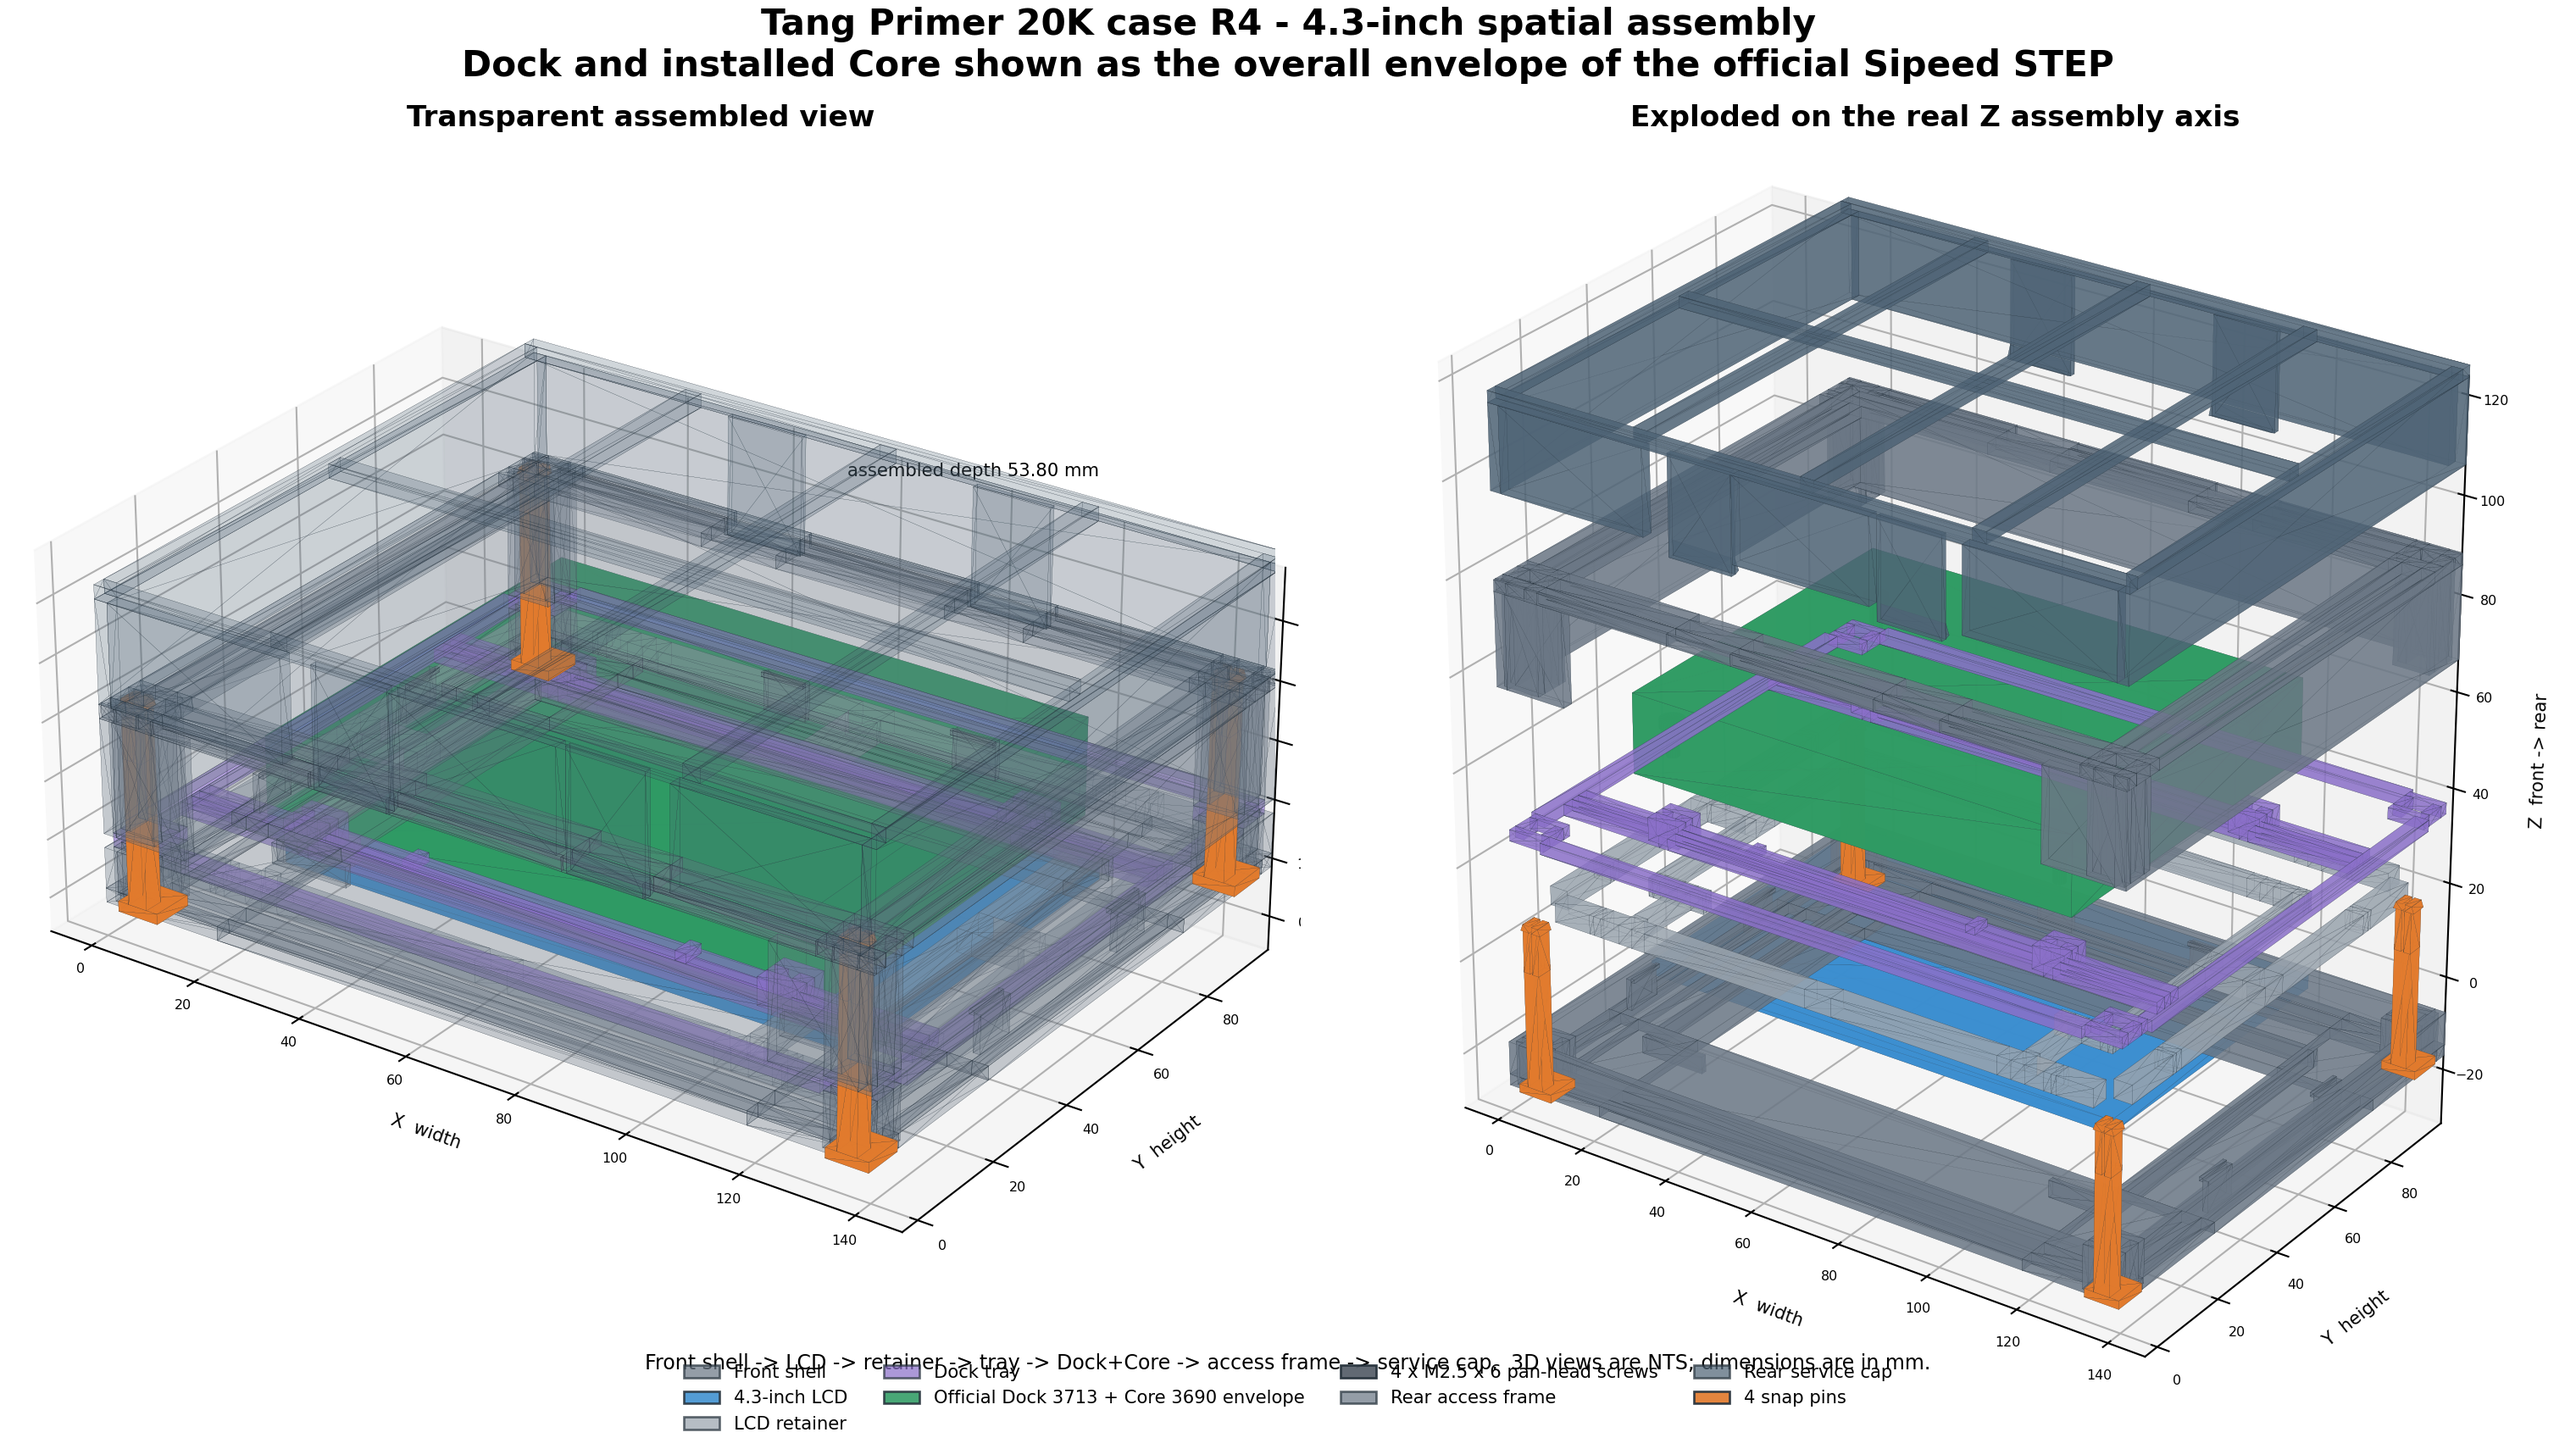
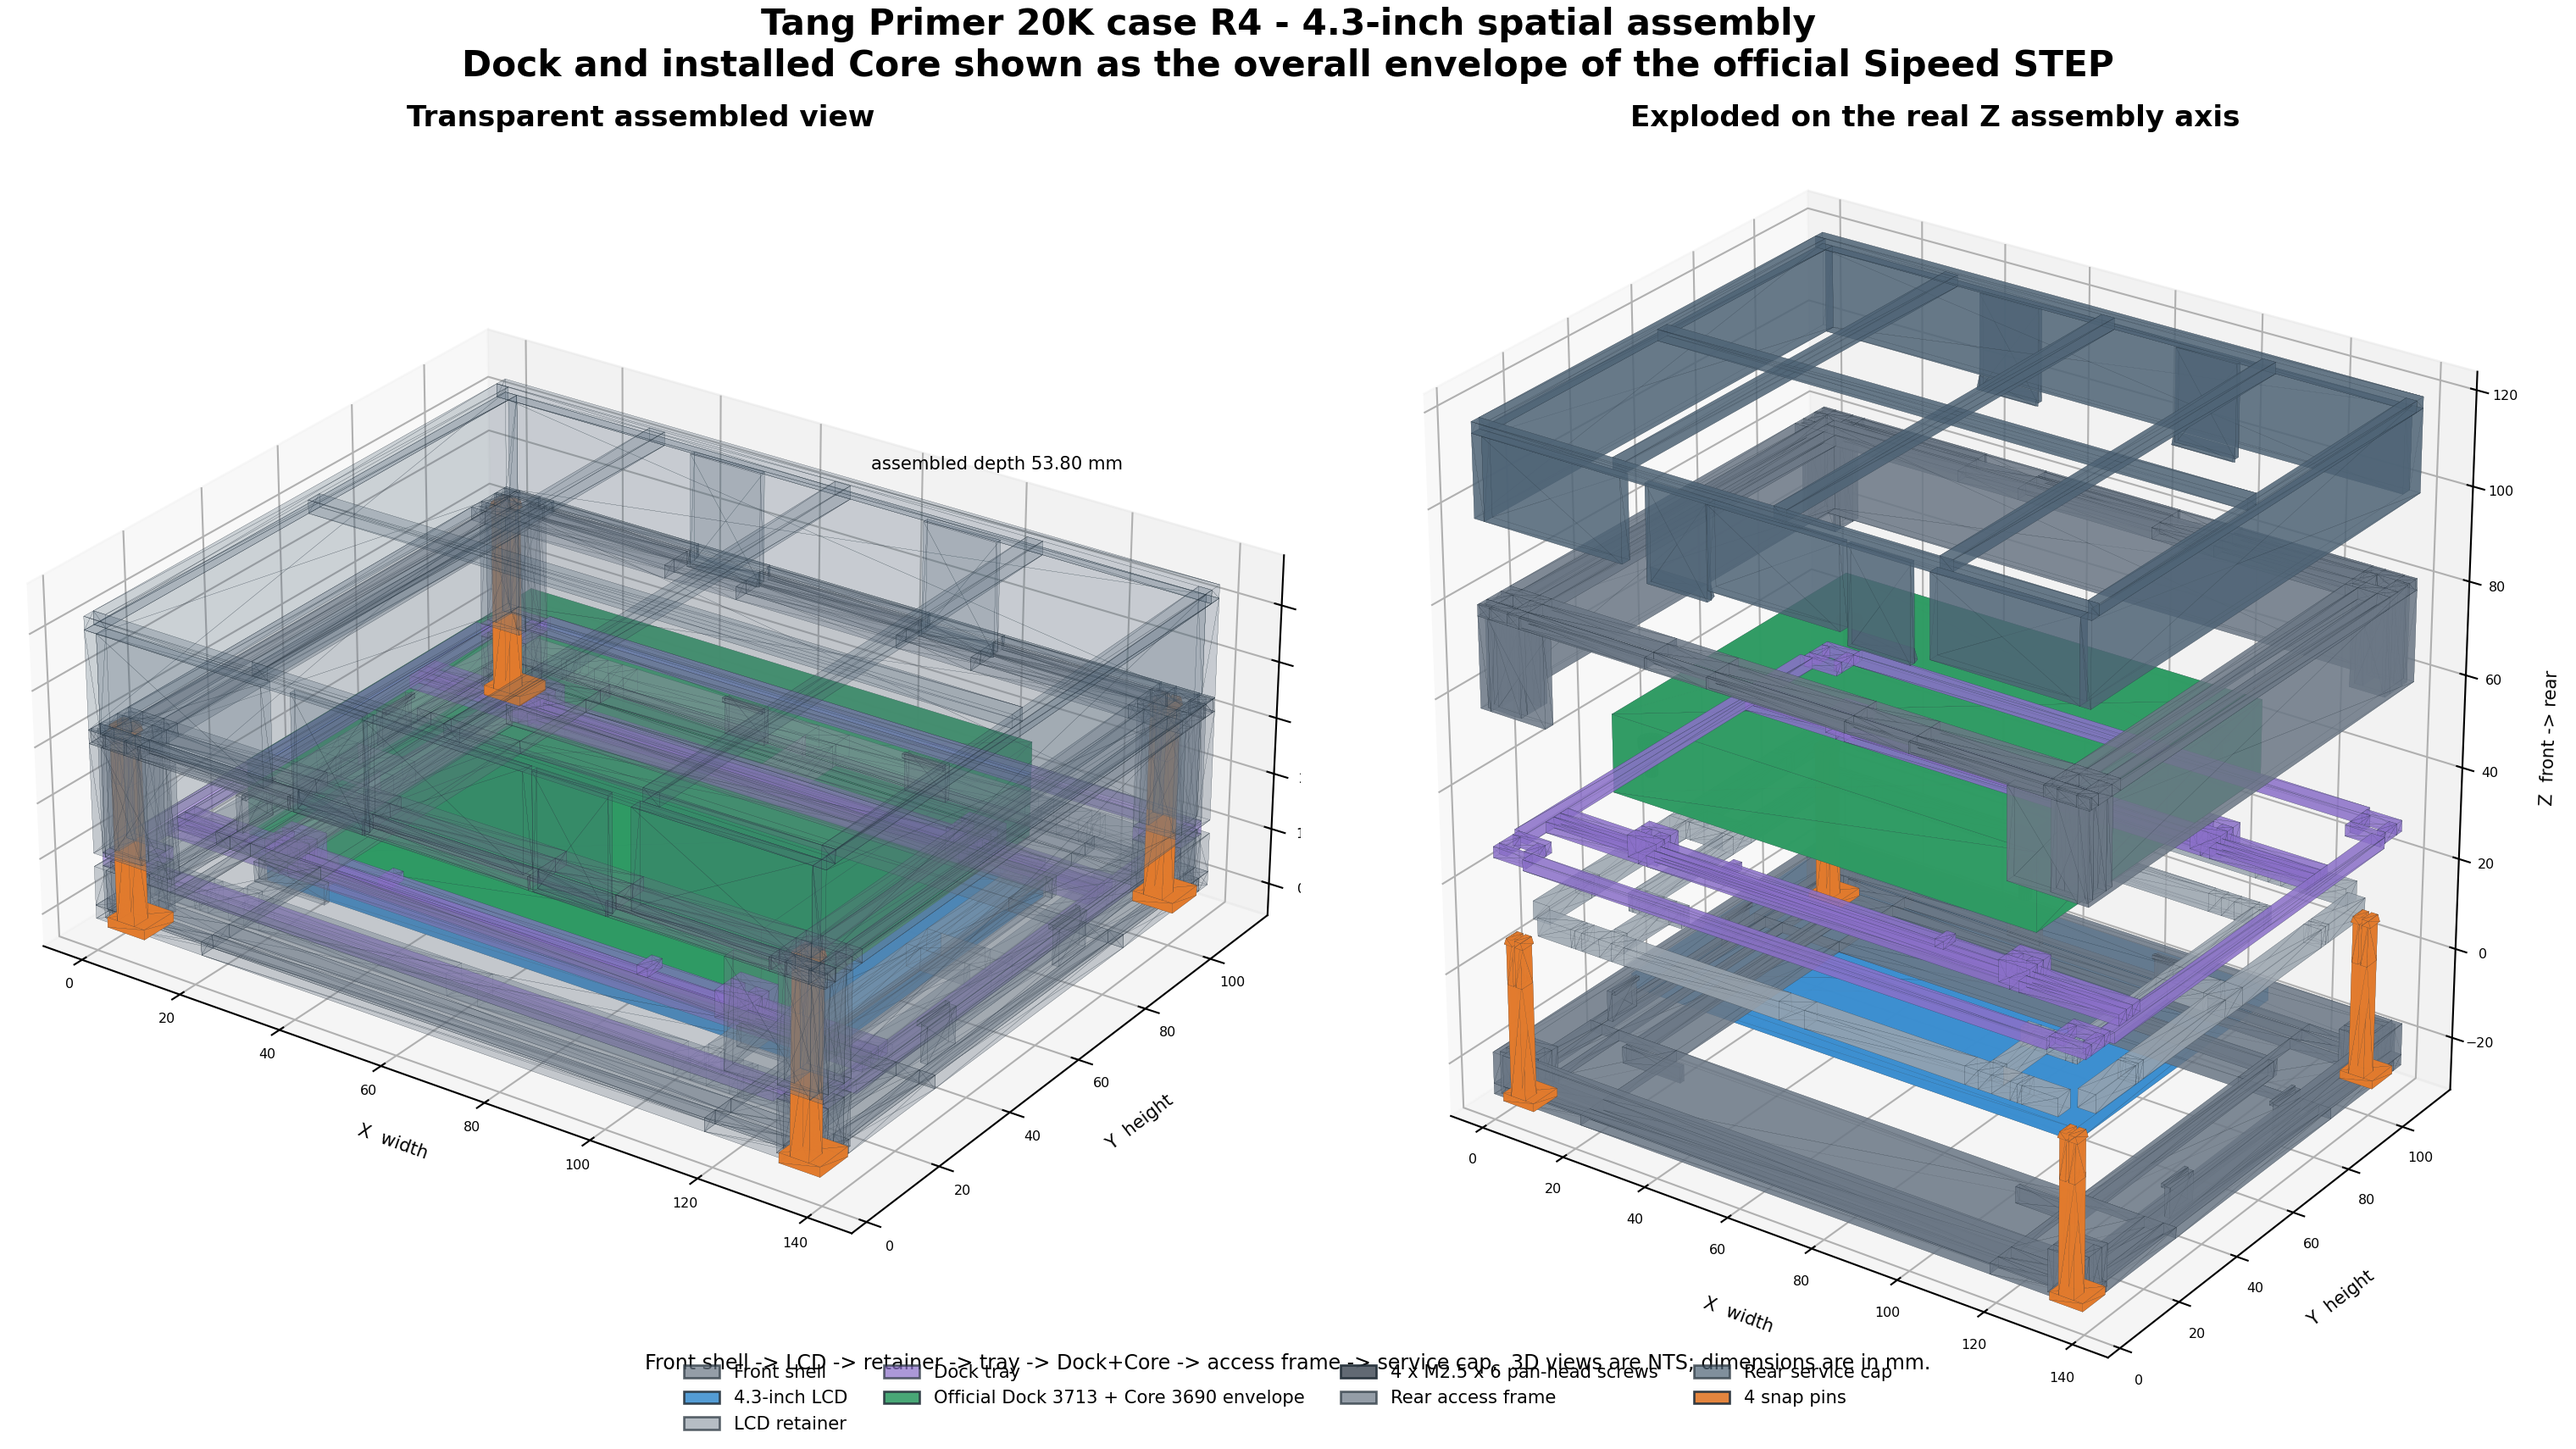
fix(tang-primer-20k): clear the frame top wall and frame the full case height
The rigid upper tongues of the service cap ended 0.60 mm inside the top
wall of the rear access frame (0.80 x 0.60 mm section per tongue), so the
cap could not reach its seated position. The tongues now stop at the inner
face of the frame plate; the detents are unchanged. Version 1.0.3.

The assembly render kept the Y limits of the 92 mm case, which left the
upper 14 mm of the 112 mm case outside the axes box.

Both issues were reported by the Codex review of the import.

Claude-Session: https://claude.ai/code/session_01BfoM2zQuHVJgEx7xZeG9W8

diff --git a/tang-primer-20k-lcd-case/render_spatial_assembly_r4.py b/tang-primer-20k-lcd-case/render_spatial_assembly_r4.py
@@ -13,7 +13,7 @@ import matplotlib.pyplot as plt
 from matplotlib.patches import Patch
 from mpl_toolkits.mplot3d.art3d import Poly3DCollection
 
-from assembly_r4 import CASE_DEPTH, Part, assembled_parts, bounds, exploded_parts
+from assembly_r4 import CASE_DEPTH, CASE_H, Part, assembled_parts, bounds, exploded_parts
 
 
 def display_triangles(part: Part):
@@ -35,9 +35,9 @@ def render_axis(ax, parts: list[Part], title: str, exploded: bool) -> None:
     all_triangles = [tri for part in parts for tri in part.triangles[::max(1, len(part.triangles)//20000)] ]
     lower, upper = bounds(all_triangles)
     ax.set_xlim(-8, 148)
-    ax.set_ylim(-4, 98)
+    ax.set_ylim(-4, CASE_H + 6)
     ax.set_zlim(lower[2] - 4, upper[2] + 5)
-    ax.set_box_aspect((156, 102, max(48, upper[2] - lower[2] + 9)))
+    ax.set_box_aspect((156, CASE_H + 10, max(48, upper[2] - lower[2] + 9)))
     ax.view_init(elev=27, azim=-55)
     ax.set_title(title, fontsize=13, fontweight="bold", pad=4)
     ax.set_xlabel("X  width", fontsize=8)
@@ -46,7 +46,7 @@ def render_axis(ax, parts: list[Part], title: str, exploded: bool) -> None:
     ax.tick_params(labelsize=6, pad=0)
     ax.grid(True, linewidth=0.25, alpha=0.35)
     if not exploded:
-        ax.text(72, 95, CASE_DEPTH + 1.0, f"assembled depth {CASE_DEPTH:.2f} mm", fontsize=8)
+        ax.text(72, CASE_H + 3, CASE_DEPTH + 1.0, f"assembled depth {CASE_DEPTH:.2f} mm", fontsize=8)
 
 
 def render(input_dir: Path, dock_step_stl: Path | None, spec_key: str, output: Path) -> None:

diff --git a/tang-primer-20k-lcd-case/tests/test_r4.py b/tang-primer-20k-lcd-case/tests/test_r4.py
@@ -41,7 +41,7 @@ class ReleaseGeometryTest(unittest.TestCase):
             self.assertIn("rear_access_frame_common.stl", names)
             self.assertIn("rear_service_cap_common.stl", names)
             self.assertIn("fit_coupon.stl", names)
-            self.assertEqual(r4.PROJECT_VERSION, "1.0.2")
+            self.assertEqual(r4.PROJECT_VERSION, "1.0.3")
 
     def test_retention_count_and_clearance(self):
         self.assertEqual(r4.RETAINER_CLIP_COUNT, 6)
@@ -138,6 +138,21 @@ class ReleaseGeometryTest(unittest.TestCase):
         lower, upper = assembly.bounds(cap)
         self.assertAlmostEqual(lower[2], 30.80)
         self.assertAlmostEqual(upper[2], 53.80)
+
+    def test_service_cap_stays_clear_of_the_frame_top_wall(self):
+        # The frame top wall spans Y >= CASE_H - WALL in front of the frame
+        # plate; nothing on the seated cap may enter that volume.
+        cap = assembly.transform(
+            r4.build_rear_service_cap().triangles,
+            lambda p: (p[0], p[1], r4.CASE_DEPTH - p[2]),
+            reflected=True,
+        )
+        wall_inner_y = r4.CASE_H - r4.WALL
+        plate_inner_z = r4.STRUCTURAL_DEPTH - r4.WALL
+        for triangle in cap:
+            for point in triangle:
+                if point[1] > wall_inner_y + 1e-6:
+                    self.assertGreaterEqual(point[2], plate_inner_z - 1e-6)
 
     def test_service_opening_and_cable_exits(self):
         self.assertEqual(r4.ACCESS_OPENING, (10.0, 10.0, 120.0, 92.0))

diff --git a/tang-primer-20k-lcd-case/generate_case_r4.py b/tang-primer-20k-lcd-case/generate_case_r4.py
@@ -52,6 +52,7 @@ SERVICE_HOOK_W = 14.0
 SERVICE_TONGUE_T = 1.20
 SERVICE_SLOT_CLEARANCE = 0.60
 SERVICE_HOOK_REACH = 23.00
+SERVICE_UPPER_TONGUE_REACH = SERVICE_CAP_DEPTH + WALL
 SERVICE_DETENT = 1.00
 SERVICE_CABLE_EXITS = ((35.0, 20.0), (85.0, 20.0))
 SERVICE_HOOK_COUNT = 2
@@ -360,8 +361,11 @@ def build_rear_service_cap() -> Mesh:
     mesh.box(cursor, 0, z, CASE_W - WALL - cursor, WALL, wall_depth)
     for x in SERVICE_HOOK_X:
         # Rigid upper insertion tongue, supported by the top wall below it.
+        # It ends at the inner face of the frame plate: the frame top wall
+        # starts there and overlaps the tongue in Y. Only the detent, which
+        # lies below the wall, reaches SERVICE_HOOK_REACH.
         mesh.box(x, 109.20, z, SERVICE_HOOK_W, SERVICE_TONGUE_T,
-                 SERVICE_HOOK_REACH - z)
+                 SERVICE_UPPER_TONGUE_REACH - z)
         tri_prism_x(mesh, (
             (109.20, 20.00),
             (109.20 - SERVICE_DETENT, 22.60),

diff --git a/tang-primer-20k-lcd-case/README.md b/tang-primer-20k-lcd-case/README.md
@@ -1,6 +1,6 @@
 # Tang Primer 20K Dock + 4.3/5.0-inch LCD case R4
 
-Tang Primer 20K Core装着済み公式Dockと、公式4.3インチまたは5.0インチRGB LCDを一体化するFDMケースです。現行バージョンはv1.0.2です。R4は外形を140.00 x 112.00 x 53.80 mmへ拡張し、固定されたリアアクセスフレームと、工具なしで着脱できる20 mmサービスキャップを追加しました。
+Tang Primer 20K Core装着済み公式Dockと、公式4.3インチまたは5.0インチRGB LCDを一体化するFDMケースです。現行バージョンはv1.0.3です。R4は外形を140.00 x 112.00 x 53.80 mmへ拡張し、固定されたリアアクセスフレームと、工具なしで着脱できる20 mmサービスキャップを追加しました。
 
 ![4.3インチ版の組立と分解](output/assembly_43.png)
 ![印刷部品](output/printed_parts.png)
@@ -83,9 +83,10 @@ nix develop --command .venv/bin/python -m unittest discover -s tang-primer-20k-l
 
 ## 由来
 
-この設計は[sabas0ba/tang_primer_20k_case](https://github.com/sabas0ba/tang_primer_20k_case)のcommit `9c9b73ae1fb763cf07efadfae853230ef7e7d9c9`（v1.0.2）から取り込みました。印刷部品の形状定義とテストは同じです。次の点を変更しています。
+この設計は[sabas0ba/tang_primer_20k_case](https://github.com/sabas0ba/tang_primer_20k_case)のcommit `9c9b73ae1fb763cf07efadfae853230ef7e7d9c9`（v1.0.2）から取り込みました。次の変更点を除き、印刷部品の形状定義とテストは同じです。
 
 - Sipeedの公式STEPから変換したDock参照メッシュを含めず、外形境界の直方体で代替した
 - 生成環境、CI、成果物の配布方法を本リポジトリのものへ置き換えた
 - 3MFとPDFから生成時刻を除き、バイト単位で再現できるようにした
 - ライセンスをApache-2.0からCC BY-SA 4.0へ変更した
+- v1.0.3: サービスキャップ上フックの舌片を0.60 mm短縮した。v1.0.2では舌片の先端がリアアクセスフレーム上壁と0.80 x 0.60 mmの断面で干渉し、キャップが公称位置まで入らなかった。係止突起の形状と位置は同じである

diff --git a/tang-primer-20k-lcd-case/DESIGN_R4.md b/tang-primer-20k-lcd-case/DESIGN_R4.md
@@ -18,7 +18,7 @@ DockとLCDはY方向へ10.00 mm移動してケース中央を維持する。Dock
 
 ケース用スナップピンの係止面はZ=33.80 mmのままなので、ピン全長37.00 mmを維持する。サービスキャップだけを外しても、LCD、Dockトレイ、Dock固定ねじ、外装ピンは動かない。
 
-サービスキャップは背面格子をベッド面として造形する。上フックと下タブはキャップ前端から3.00 mm突出し、アクセスフレームの専用スロットに入る。係止突起はZ方向に連続的に成長する傾斜面で、サポートを要求する水平下面を設けない。
+サービスキャップは背面格子をベッド面として造形する。上フックと下タブはアクセスフレームの専用スロットに入り、係止突起はキャップ前端から3.00 mm突出する。下タブの舌片も3.00 mm突出する。上フックの舌片はフレーム上壁とY方向に重なるため、突出をフレーム背面板の厚さと同じ2.40 mmとし、背面板の内面で止める。係止突起はZ方向に連続的に成長する傾斜面で、サポートを要求する水平下面を設けない。
 
 ## 3. 各部の固定
 
